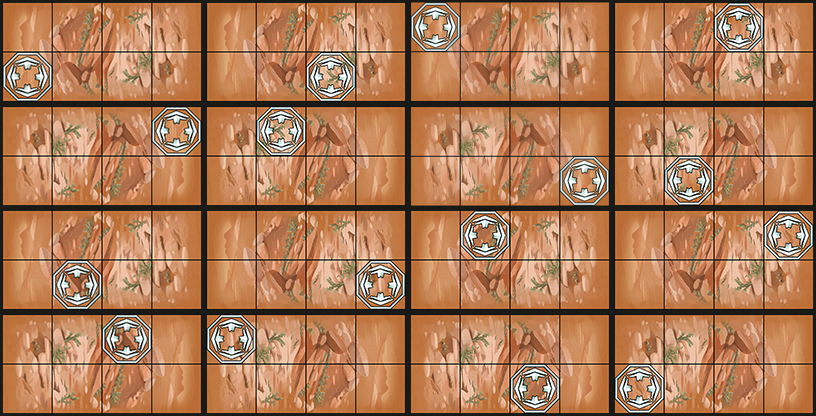
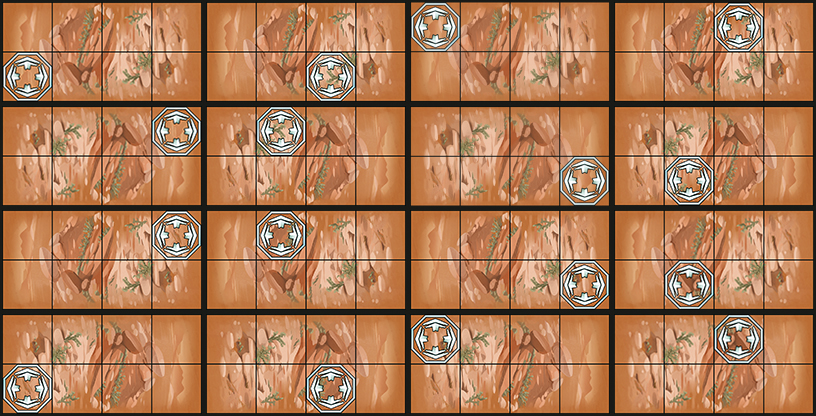
Working on Accelerator Space Issue
Works for moves but not for accelerators

diff --git a/crashandgrab.css b/crashandgrab.css
@@ -2163,23 +2163,24 @@ width: 170px;
 
 /***** OVERRIDE TOKEN *****/
 .override_token {
-    width: 30px;
-    height: 30px;
+    width: 62px;
+    height: 62px;
 
-    background-image: url('img/booster_30.png');
+    background-image: url('img/clockwise_62w.png');
+    background-position: 0px 0px;
 
     position: absolute;
     display: inline-block;
 
-    top: 28px;
-    left: 28px;
+    top: 12px;
+    left: 5px;
 
     z-index: 20;
 
     filter: drop-shadow(1px 1px 1px #222);
 
-    /* make it white */
-    box-shadow: inset 0 0 0 99999px rgba(255, 255, 255, 0.5);
+    /* make it semi-transparent white */
+    /*box-shadow: inset 0 0 0 99999px rgba(255, 255, 255, 0.5);*/
 }
 
 /***** BOOSTERS *****/

diff --git a/crashandgrab.game.php b/crashandgrab.game.php
@@ -1338,12 +1338,20 @@ self::warn("<b>HAND not NULL</b>"); // log to sql database
 										foreach( $directionsWithSpaces as $direction => $directionWithSpaces )
 										{ // go through each space
 
+
+
 												$result[$owner][$color][$cardType][$direction] = array(); // we need an array for the spaces we get with this card type and direction
 
 												foreach( $directionWithSpaces as $space )
 												{ // go through each space
+
 														$column = $space['column'];
 														$row = $space['row'];
+
+														/*
+														echo("[$owner][$color][$cardType][$direction]:($row,$column)");
+														echo("<br>");
+														*/
 
 														$formattedSpace = $column.'_'.$row;
 
@@ -1499,15 +1507,20 @@ self::warn("<b>HAND not NULL</b>"); // log to sql database
 
 
 						$movesForSaucer = $this->getMovesForSaucer($color);
+
+/*
+if($color == '0090ff')
+{
 						//$count = count($movesForSaucer);
 						//throw new feException( "movesForSaucer Count:$count" );
 
-						//foreach(array_keys($movesForSaucer) as $paramName)
-						//{
-						   //echo($paramName);
-						   //echo("<br>");
-						//}
-
+						foreach(array_keys($movesForSaucer) as $paramName)
+						{
+						   echo($paramName);
+						   echo("<br>");
+						}
+}
+*/
 						foreach( $movesForSaucer as $cardType => $moveCard )
 						{ // go through each move card for this saucer
 
@@ -1541,7 +1554,10 @@ self::warn("<b>HAND not NULL</b>"); // log to sql database
 		function getMovesForSaucer($color, $specificMoveCard='')
 		{
 				$result = array();
-
+				if($color == '0090ff')
+				{
+//throw new feException( "b92bba specificMoveCard:$specificMoveCard" );
+				}
 				$availableMoveCards = $this->getAvailableMoveCardsForSaucer($color);
 
 				//$availableMoveCardsCount = count($availableMoveCards);
@@ -1560,10 +1576,10 @@ self::warn("<b>HAND not NULL</b>"); // log to sql database
 								$saucerX = $this->getSaucerXLocation($color); // this saucer's starting column
 								$saucerY = $this->getSaucerYLocation($color); // this saucer's starting row
 
-								$result[$distanceType]['directions']['sun'] = $this->getMoveDestinationsInDirection($saucerX, $saucerY, $distanceType, 'sun'); // destinations for this saucer, this card, in the sun direction
-								$result[$distanceType]['directions']['asteroids'] = $this->getMoveDestinationsInDirection($saucerX, $saucerY, $distanceType, 'asteroids'); // destinations for this saucer, this card, in the asteroids direction
-								$result[$distanceType]['directions']['meteor'] = $this->getMoveDestinationsInDirection($saucerX, $saucerY, $distanceType, 'meteor'); // destinations for this saucer, this card, in the meteor direction
-								$result[$distanceType]['directions']['constellation'] = $this->getMoveDestinationsInDirection($saucerX, $saucerY, $distanceType, 'constellation'); // destinations for this saucer, this card, in the constellation direction
+								$result[$distanceType]['directions']['sun'] = $this->getMoveDestinationsInDirection($color, $saucerX, $saucerY, $distanceType, 'sun'); // destinations for this saucer, this card, in the sun direction
+								$result[$distanceType]['directions']['asteroids'] = $this->getMoveDestinationsInDirection($color, $saucerX, $saucerY, $distanceType, 'asteroids'); // destinations for this saucer, this card, in the asteroids direction
+								$result[$distanceType]['directions']['meteor'] = $this->getMoveDestinationsInDirection($color, $saucerX, $saucerY, $distanceType, 'meteor'); // destinations for this saucer, this card, in the meteor direction
+								$result[$distanceType]['directions']['constellation'] = $this->getMoveDestinationsInDirection($color, $saucerX, $saucerY, $distanceType, 'constellation'); // destinations for this saucer, this card, in the constellation direction
 
 								//$countSun = count($result[$distanceType]['directions']['sun']);
 								//throw new feException( "countSun:$countSun" );
@@ -1577,11 +1593,10 @@ self::warn("<b>HAND not NULL</b>"); // log to sql database
 				return $result;
 		}
 
-		function getMoveDestinationsInDirection($startColumn, $startRow, $distanceType, $direction)
+		function getMoveDestinationsInDirection($saucerColor, $startColumn, $startRow, $distanceType, $direction)
 		{
 				$result = array();
-				$saucerWhoseTurnItIs = $this->getOstrichWhoseTurnItIs();
-
+//throw new feException( "distanceType: $distanceType direction: $direction");
 				switch($distanceType)
 				{ // 0=X, 1=2, 2=3, 3=max
 						case 3: // max
@@ -1595,13 +1610,13 @@ self::warn("<b>HAND not NULL</b>"); // log to sql database
 								$space['column'] = $column;
 								array_push($result, $space); // add this space to the list of move destinations
 
-								$maxDistance = $this->getSaucerXValue( $saucerWhoseTurnItIs ) + 1;
+								$maxDistance = $this->getSaucerXValue( $saucerColor ) + 1;
 								//throw new feException( "maxDistance: $maxDistance distanceType:$distanceType");
 								if($distanceType == 3)
 								{ // max distance
 										$maxDistance = 20;
 								}
-								elseif($this->getUpgradeTimesActivatedThisRound($saucerWhoseTurnItIs, "Hyperdrive") > 0)
+								elseif($this->getUpgradeTimesActivatedThisRound($saucerColor, "Hyperdrive") > 0)
 								{ // this player activated hyperdrive this round
 										$maxDistance = $maxDistance * 2;
 								}
@@ -1639,7 +1654,7 @@ self::warn("<b>HAND not NULL</b>"); // log to sql database
 								if($distanceType == 2)
 										$offset = 3;
 
-								if($this->getUpgradeTimesActivatedThisRound($saucerWhoseTurnItIs, "Hyperdrive") > 0)
+								if($this->getUpgradeTimesActivatedThisRound($saucerColor, "Hyperdrive") > 0)
 								{ // this player activated hyperdrive this round
 										$offset = $offset * 2;
 								}
@@ -1647,47 +1662,122 @@ self::warn("<b>HAND not NULL</b>"); // log to sql database
 								switch($direction)
 								{
 										case 'sun':
-										$row = $startRow - $offset;
-										if($row < 0)
-										{ // went off the board
-												$row = 0;
-										}
+												$row = $startRow - $offset; // default
+												for ($x = $startRow; $x <= ($startRow - $offset); $x--) {
+												  	$spaceType = $this->getBoardSpaceType($startColumn, $x);
+														if($spaceType == "S")
+														{ // found an accelerator
 
-										$column = $startColumn;
+																// stop at the accelerator
+																$row = $x;
+														}
+												}
+
+												$spaceTypeAfter = $this->getBoardSpaceType($startColumn, $row);
+												if($spaceTypeAfter != "S" && $row < 0)
+												{ // went off the board
+														$row = 0;
+												}
+
+												$column = $startColumn;
 
 										break;
 
 										case 'asteroids':
-										$row = $startRow;
 
-										$column = $startColumn + $offset;
-										$maxColumns = $this->getMaxColumns();
-										if($column > $maxColumns)
-										{
-												$column = $maxColumns;
-										}
+												$row = $startRow;
+
+												$column = $startColumn + $offset; // default
+												//throw new feException( "saucerColor:$saucerColor row:$row column:$column");
+												for ($y = $startColumn; $y >= ($startColumn + $offset); $y++) {
+														$spaceType = $this->getBoardSpaceType($y, $startRow);
+//if($saucerColor == 'b92bba' && $spaceType == 'S')
+/*
+if($saucerColor == '01b508')
+{
+echo("($startRow,$y):$spaceType");
+echo("<br>");
+}
+*/
+//if($spaceType == 'S')
+//{
+//throw new feException( "saucerColor:$saucerColor spaceType:$spaceType row:$row column:$column");
+//}
+														if($spaceType == "S")
+														{ // found an accelerator
+//throw new feException( "saucerColor:$saucerColor row:$row column:$column");
+																// stop at the accelerator
+																$column = $y;
+														}
+												}
+
+												$maxColumns = $this->getMaxColumns();
+												$spaceTypeAfter = $this->getBoardSpaceType($column, $startRow);
+												if($spaceTypeAfter != "S" && $column > $maxColumns)
+												{ // went off the board
+
+														$column = $maxColumns;
+												}
 										break;
 
 										case 'meteor':
-										$row = $startRow + $offset;
-
-										$maxRows = $this->getMaxRows();
-										if($row > $maxRows)
+										if($saucerColor == 'f6033b')
 										{
-												$row = $maxRows;
+											//throw new feException( "saucerColor:$saucerColor startRow:$startRow startColumn:$startColumn offset:$offset");
 										}
+												$row = $startRow + $offset;
+												$limit = $startRow + $offset;
+												for ($x = $startRow; $x >= 7; $x++) {
+														$spaceType = $this->getBoardSpaceType($startColumn, $x);
+														//if($saucerColor == 'f6033b')
+														//{
+														//throw new feException( "saucerColor:$saucerColor x:$x startColumn:$startColumn spaceType:$spaceType");
+														//}
+														//if($saucerColor == 'f6033b')
+														//{
+														//echo("($startColumn,$x):$spaceType");
+														//echo("<br>");
+														//}
 
-										$column = $startColumn;
+														if($spaceType == "S")
+														{ // found an accelerator
+
+																// stop at the accelerator
+																$row = $x;
+														}
+												}
+
+												$maxRows = $this->getMaxRows();
+												$spaceTypeAfter = $this->getBoardSpaceType($startColumn, $row);
+												if($spaceTypeAfter != "S" && $row > $maxRows)
+												{ // went off the board
+
+														$row = $maxRows;
+												}
+
+												$column = $startColumn;
 										break;
 
 										case 'constellation':
-										$row = $startRow;
+												$row = $startRow;
 
-										$column = $startColumn - $offset;
-										if($column < 0)
-										{ // went off the board
-												$column = 0;
-										}
+												$column = $startColumn - $offset;
+												for ($y = $startColumn; $y <= ($startColumn - $offset); $y--) {
+														$spaceType = $this->getBoardSpaceType($y, $startRow);
+														if($spaceType == "S")
+														{ // found an accelerator
+
+																// stop at the accelerator
+																$column = $y;
+														}
+												}
+
+												$spaceTypeAfter = $this->getBoardSpaceType($column, $startRow);
+												if($spaceTypeAfter != "S" && $column < 0)
+												{ // went off the board
+
+														$column = 0;
+												}
 										break;
 
 										default:
@@ -4745,7 +4835,11 @@ self::warn("<b>HAND not NULL</b>"); // log to sql database
 
 						$spaceType = $this->getBoardSpaceType($x, $y);
 						//throw new feException( "x:$x y:$y");
-
+						//if($startingY == 9)
+						//{
+						//echo("($x,$y):$spaceType");
+						//echo("<br>");
+						//}
 						array_push($result, $spaceArray); // add this space to the list of move destinations
 						if($spaceType == "S" || $spaceType == "D")
 						{ // accelerator or off the board
